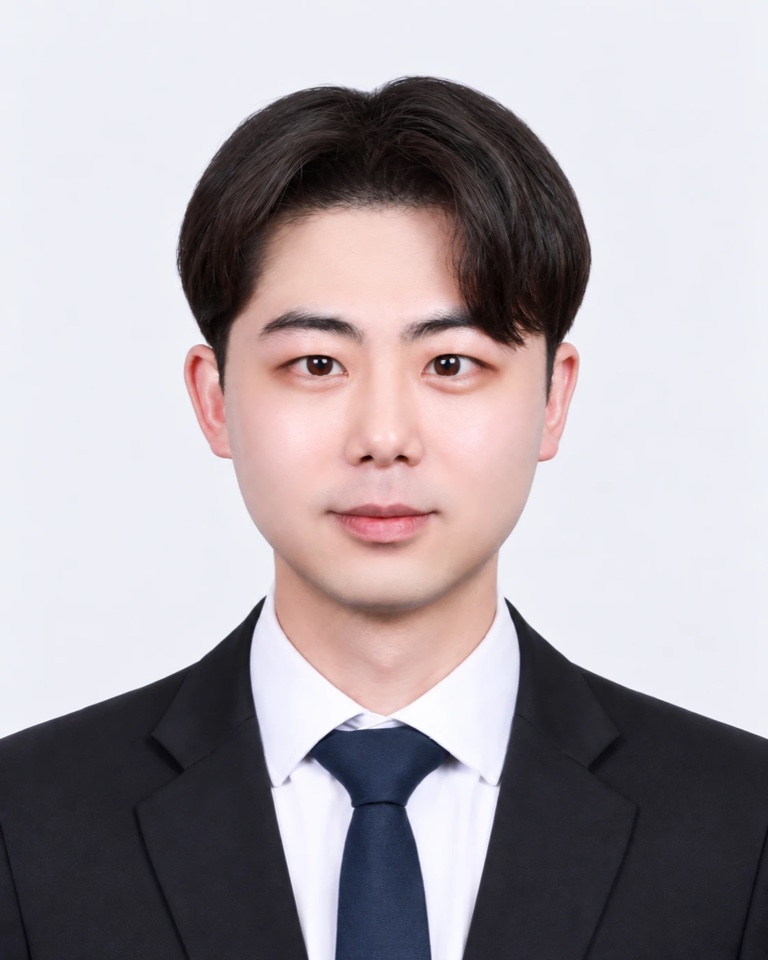
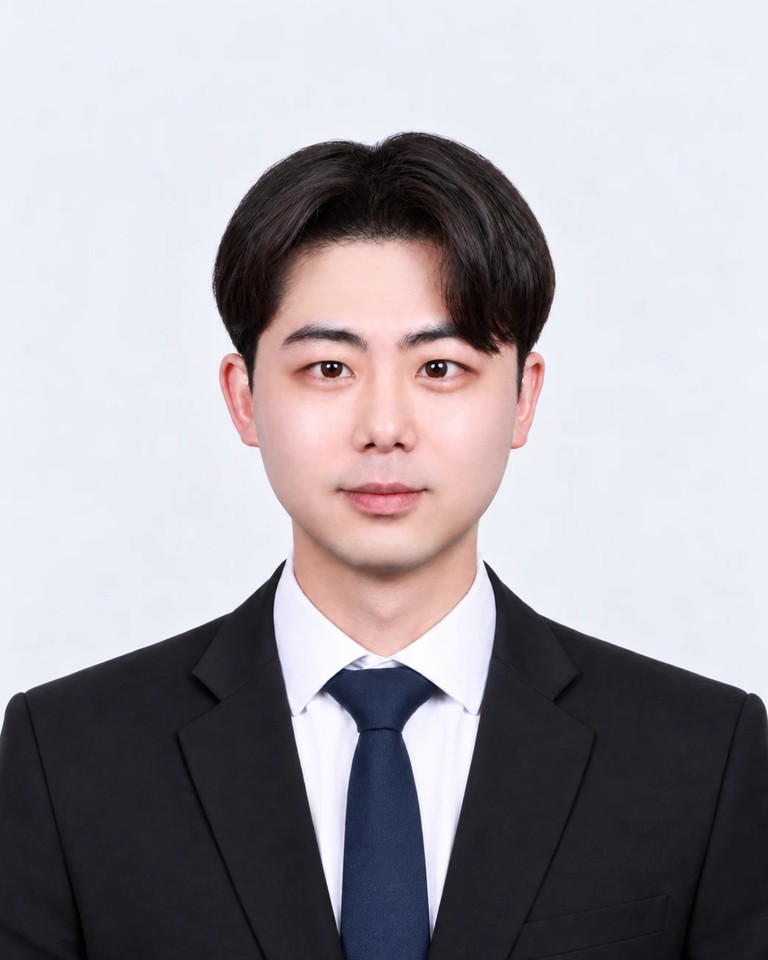
팀원 3인 사진을 _04 원본으로 교체, 얼굴 크기·눈높이 통일 크롭(확대 설정 제거)

diff --git a/index.html b/index.html
@@ -7,7 +7,7 @@
 <meta name="description" data-i18n-attr="content:meta.desc" content="다음에 무엇을 물을지 아는 Doctor Agent. 현업 의사 자문과 함께 회진하듯 검토하며 만드는 팀 Rounds의 N.O.V.A. 2026 팀 소개 페이지">
 <meta name="color-scheme" content="light dark">
 <link rel="stylesheet" href="https://cdn.jsdelivr.net/gh/orioncactus/pretendard@v1.3.9/dist/web/static/pretendard.min.css">
-<link rel="stylesheet" href="assets/style.css?v=10040008">
+<link rel="stylesheet" href="assets/style.css?v=10040029">
 <script>document.documentElement.classList.add("js");</script>
 </head>
 <body>
@@ -244,8 +244,8 @@
   <p>Rounds · 회진 &middot; <a href="https://nova.snubhai.org/" target="_blank" rel="noopener noreferrer">N.O.V.A. 2026</a></p>
 </div></footer>
 
-<script src="assets/i18n.js?v=10040008"></script>
-<script src="members.js?v=10040008"></script>
-<script src="assets/app.js?v=10040008"></script>
+<script src="assets/i18n.js?v=10040029"></script>
+<script src="members.js?v=10040029"></script>
+<script src="assets/app.js?v=10040029"></script>
 </body>
 </html>

diff --git a/assets/app.js b/assets/app.js
@@ -23,7 +23,7 @@
       c.style.setProperty("--d",(i*0.12)+"s");
       var hasPhoto=!!m.photo&&safeUrl(m.photo);
       var ph=el("div",hasPhoto?"photo":"photo avatar");
-      if(hasPhoto){var img=el("img");img.src=m.photo+"?v=10040008";img.alt=pick(m,"name")+tr("m.photoAlt");img.loading="lazy";if(m.photoZoom){img.style.transform="scale("+m.photoZoom+")";img.style.transformOrigin="50% 30%"}ph.appendChild(img)}
+      if(hasPhoto){var img=el("img");img.src=m.photo+"?v=10040029";img.alt=pick(m,"name")+tr("m.photoAlt");img.loading="lazy";if(m.photoZoom){img.style.transform="scale("+m.photoZoom+")";img.style.transformOrigin="50% 30%"}ph.appendChild(img)}
       else{var ini=el("span","initial",/^\(/.test(m.name||"")?"Dr":(m.name||"?").charAt(0));ini.setAttribute("aria-hidden","true");ph.appendChild(ini)}
       c.appendChild(ph);
       var b=el("div","body");

diff --git a/members.js b/members.js
@@ -44,7 +44,6 @@ window.MEMBERS = [
   {
     name: "박연주",
     photo: "assets/members/park-yeonju.jpg",
-    photoZoom: 1.1, // 다른 두 사진과 얼굴 크기 맞춤(표시용 확대, 원본 파일은 그대로)
     role: "부팀장 · 의료영상·그래프 모델링",
     affiliation: "SK AI Leader Academy (SKALA) 4기 · 한양대학교 인공지능학과 석사",
     intro: "뇌영상(DTI·rs-fMRI)과 유전체 데이터로 알츠하이머 분류를 연구했습니다. 데이터 규모에 맞는 모델 복잡도와 통제 실험을 중시합니다.",
